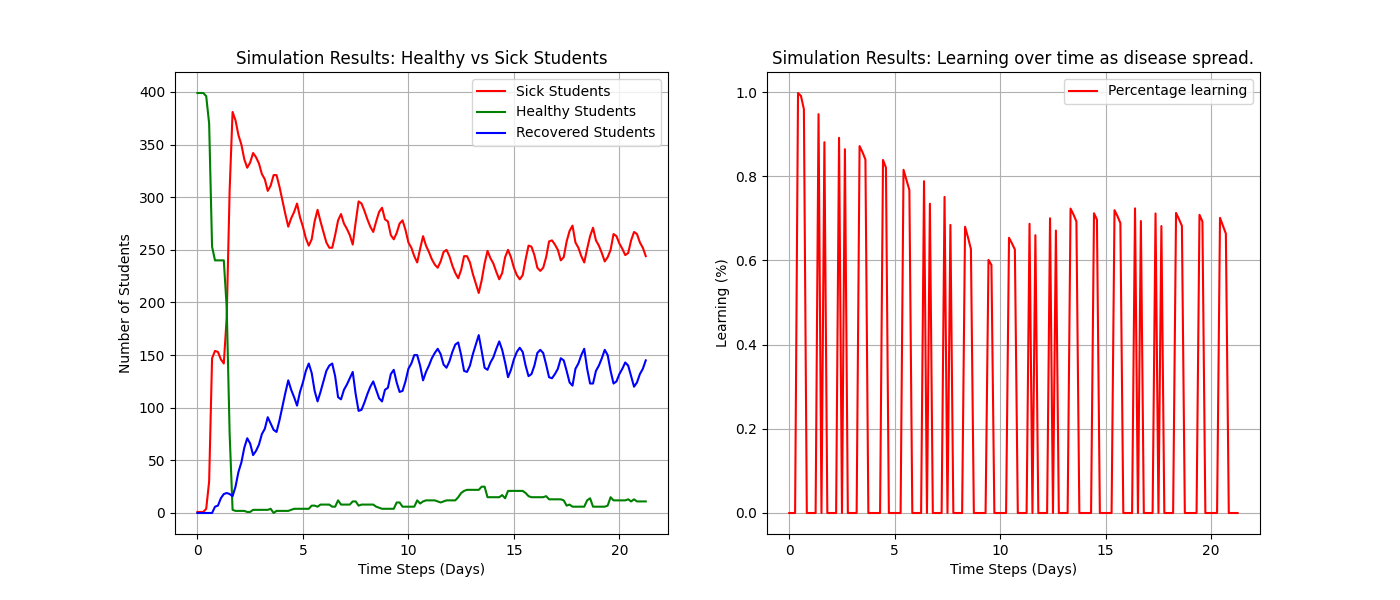
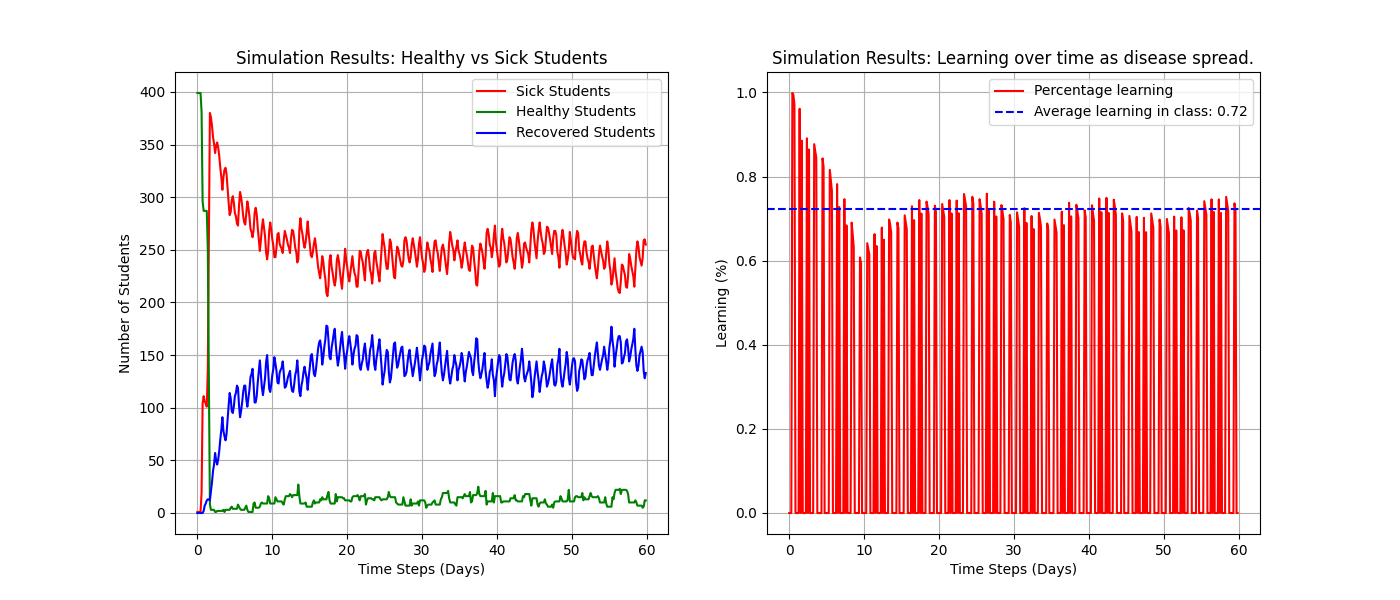
Main thing, added average learning, and create subplots.
Changed max_time_step to 60 days, Added learning average learning in the learning over time plot.

diff --git a/Plot.py b/Plot.py
@@ -4,6 +4,7 @@ import numpy as np
 import Students
 import Buildings
 import Settings
+import SimulationController
 
 recorded_time_steps = []
 recorded_sick_students = []
@@ -34,6 +35,11 @@ def record_student_learning(buildings):
                 total_learning_fraction.append(fraction_learning_per_class/building.maximum_number)
 
     student_learning.append(np.sum(total_learning_fraction)/4) ## divide by 4 since we are looking at 4 departments
+
+
+
+
+
 
 
 def record_simulation_data(time_step):
@@ -82,8 +88,14 @@ def save_plot(infectious_rate, recovery_rate,social_dist,stay_home_thresh):
     ax[0].legend()
     ax[0].grid(True)
 
+
+    ## Non-zero-learning refers to the time when the students are at school.
+    non_zero_learning = np.array([rate for rate in student_learning if rate != 0])
+    avg_learning = np.sum(non_zero_learning)/len(non_zero_learning)
+
     # Plotting on the second subplot
     ax[1].plot(np.array(recorded_time_steps) / Settings.time_step_per_day, student_learning, label="Percentage learning", color="red")
+    ax[1].axhline(y=avg_learning, color='blue', linestyle='--', label=f'Average learning in class: {avg_learning:.2f}')
     ax[1].set_xlabel("Time Steps (Days)")
     ax[1].set_ylabel("Learning (%)")
     ax[1].set_title("Simulation Results: Learning over time as disease spread.")

diff --git a/main.py b/main.py
@@ -80,7 +80,7 @@ for i in range(Students.total_students):
 
 # the whole simulation
 time_step = 0
-max_time_step = 10000000
+max_time_step = 43200 # corresponds to 60 days. time_step_per_day * 60
 time_step_per_day = 720
 visualization_step = 100
 #initialize data arrays
@@ -105,7 +105,6 @@ while time_step < max_time_step and running:
 
 
     time_step += 1
-
 
 
 Plot.save_plot(buildings["Home"].infection_rate,buildings["Home"].recovery_rate, Settings.public_distancing_precentage,Settings.stay_at_home_threshold)

diff --git a/Settings.py b/Settings.py
@@ -7,7 +7,7 @@ max_capacity_caffeteria=400 # same as number of students.
 public_distancing_precentage=1
 
 building_capacity=max_capacity*public_distancing_precentage
-rate_of_dissease_spread=0.01
+rate_of_dissease_spread=0.001
 recovery_rate=0.0003
 incubation_rate=0.001
 suseptible_again_probability=0.001
@@ -17,3 +17,5 @@ stay_at_home_threshold=0.7
 patient_zero_index=50
 
 time_step_per_day = 720
+
+max_time_step = 43200 # corresponds to 60 days. time_step_per_day * 60
